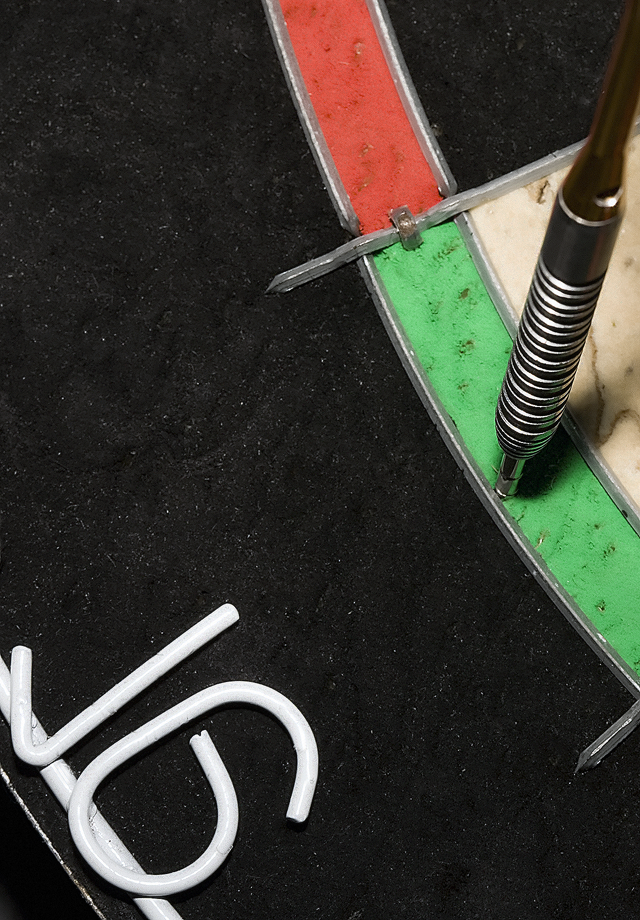
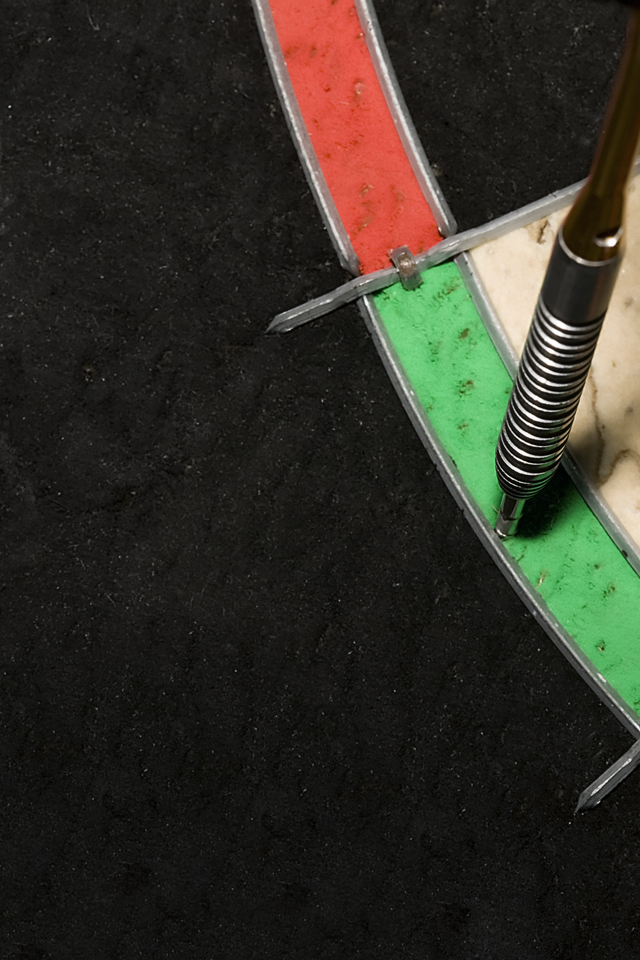
new blank background

diff --git a/index.html b/index.html
@@ -155,7 +155,7 @@
 			<button id="stats2_button">View Stats</button> &nbsp; &nbsp; <button id="game2_button">Play Again</button>
 		</div>
 		
-		<div id="stats" class="view" style="background:url('assets/img/mainDim.png') no-repeat; background-size:100%;" ontouchmove="touchMove(event);">
+		<div id="stats" class="view" style="background:url('assets/img/blank_at_2x.png') repeat-y; background-size:100%;" ontouchmove="touchMove(event);">
 			<br />
 			<img src="assets/img/imgYourStats_at_2x.png" style="align:center;" width="224" height="34" />
 			<br /><br />
@@ -193,7 +193,7 @@
 			<!--<button id="statsok_button">OK</button>-->
 		</div>
 
-		<div id="help" class="view" style="background:url('assets/img/mainDim_at_2x.png') no-repeat; background-size:100%;">
+		<div id="help" class="view" style="background:url('assets/img/blank_at_2x.png') repeat-y; background-size:100%;">
 			<br />
 			<center><strong>How to use this app</strong></center>
 			<br />
